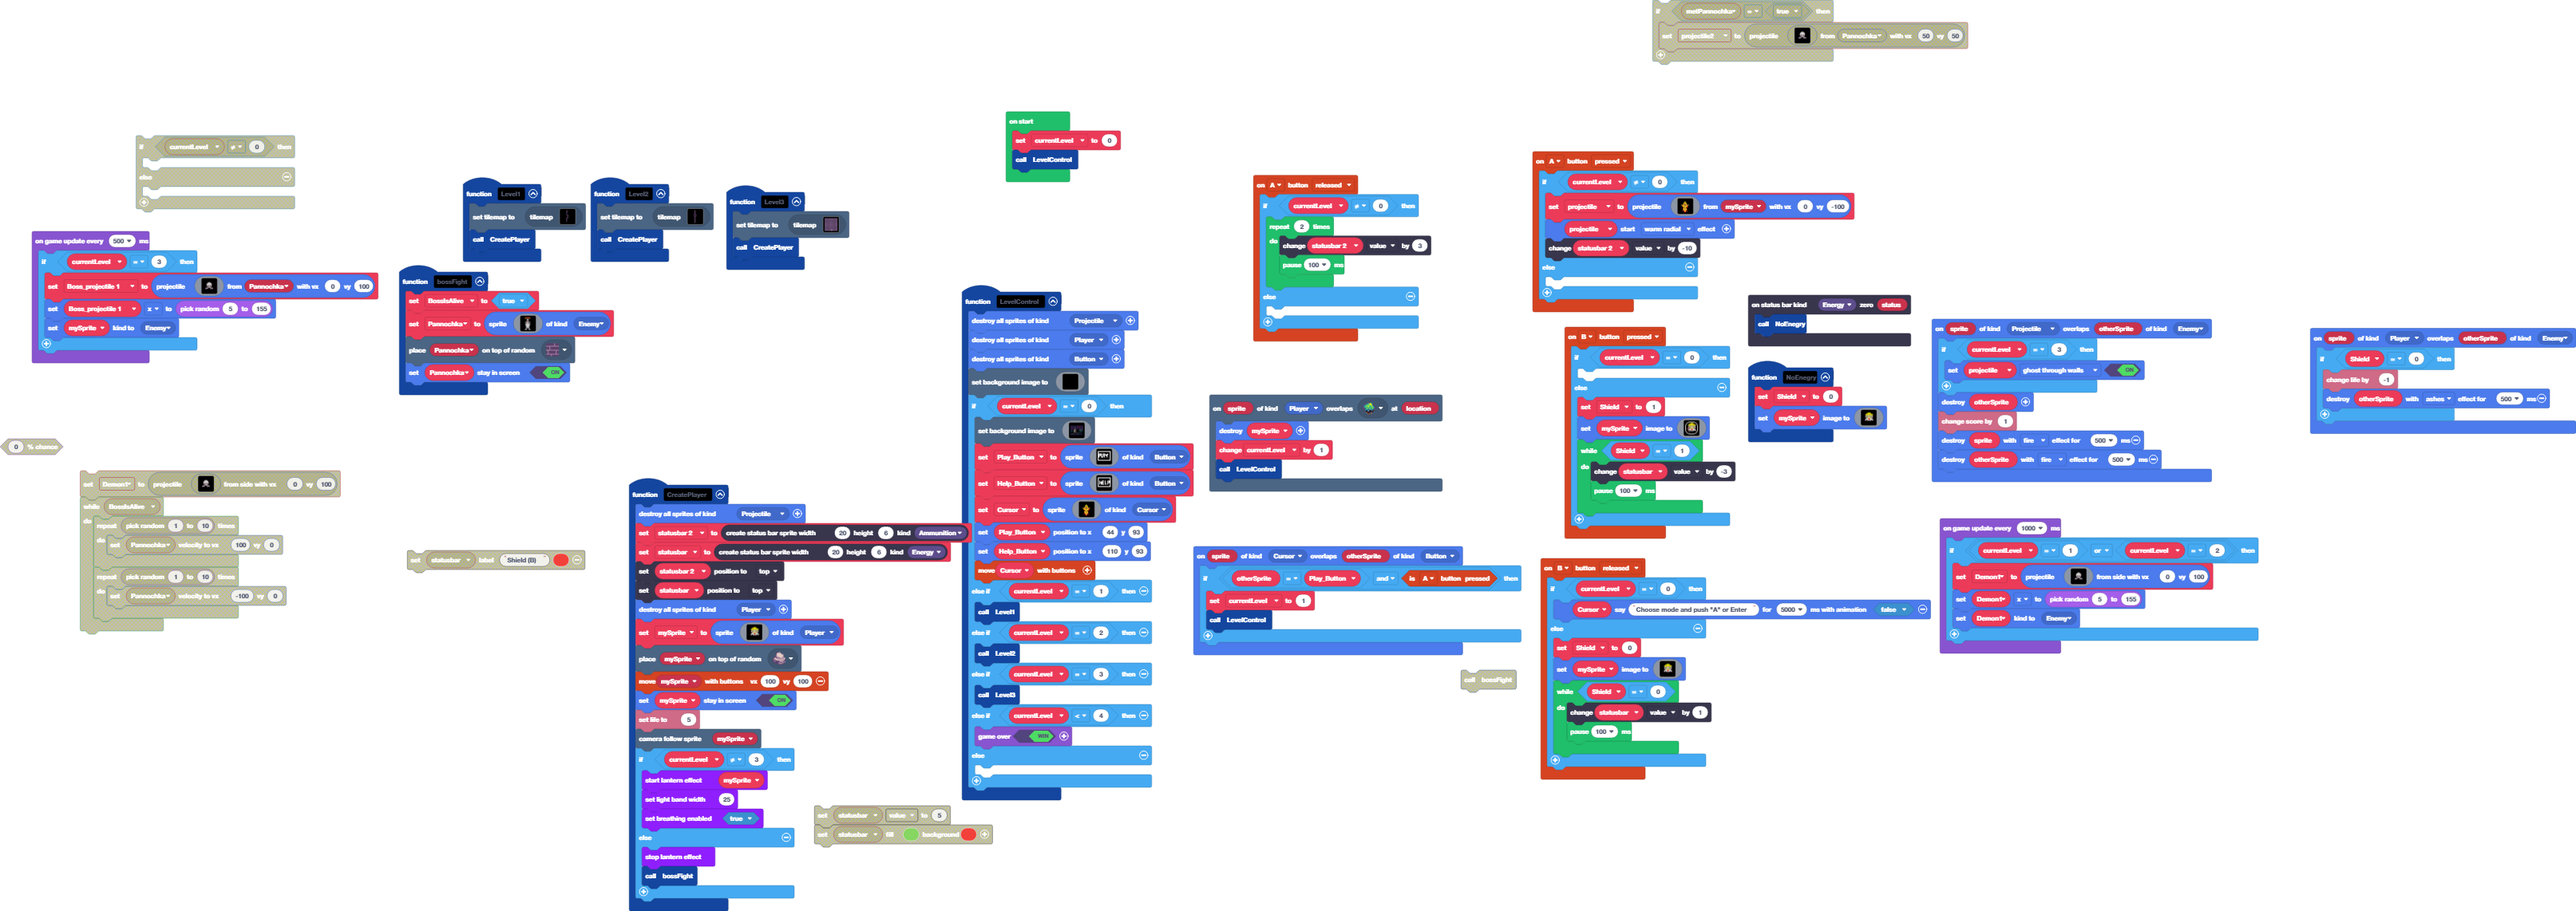
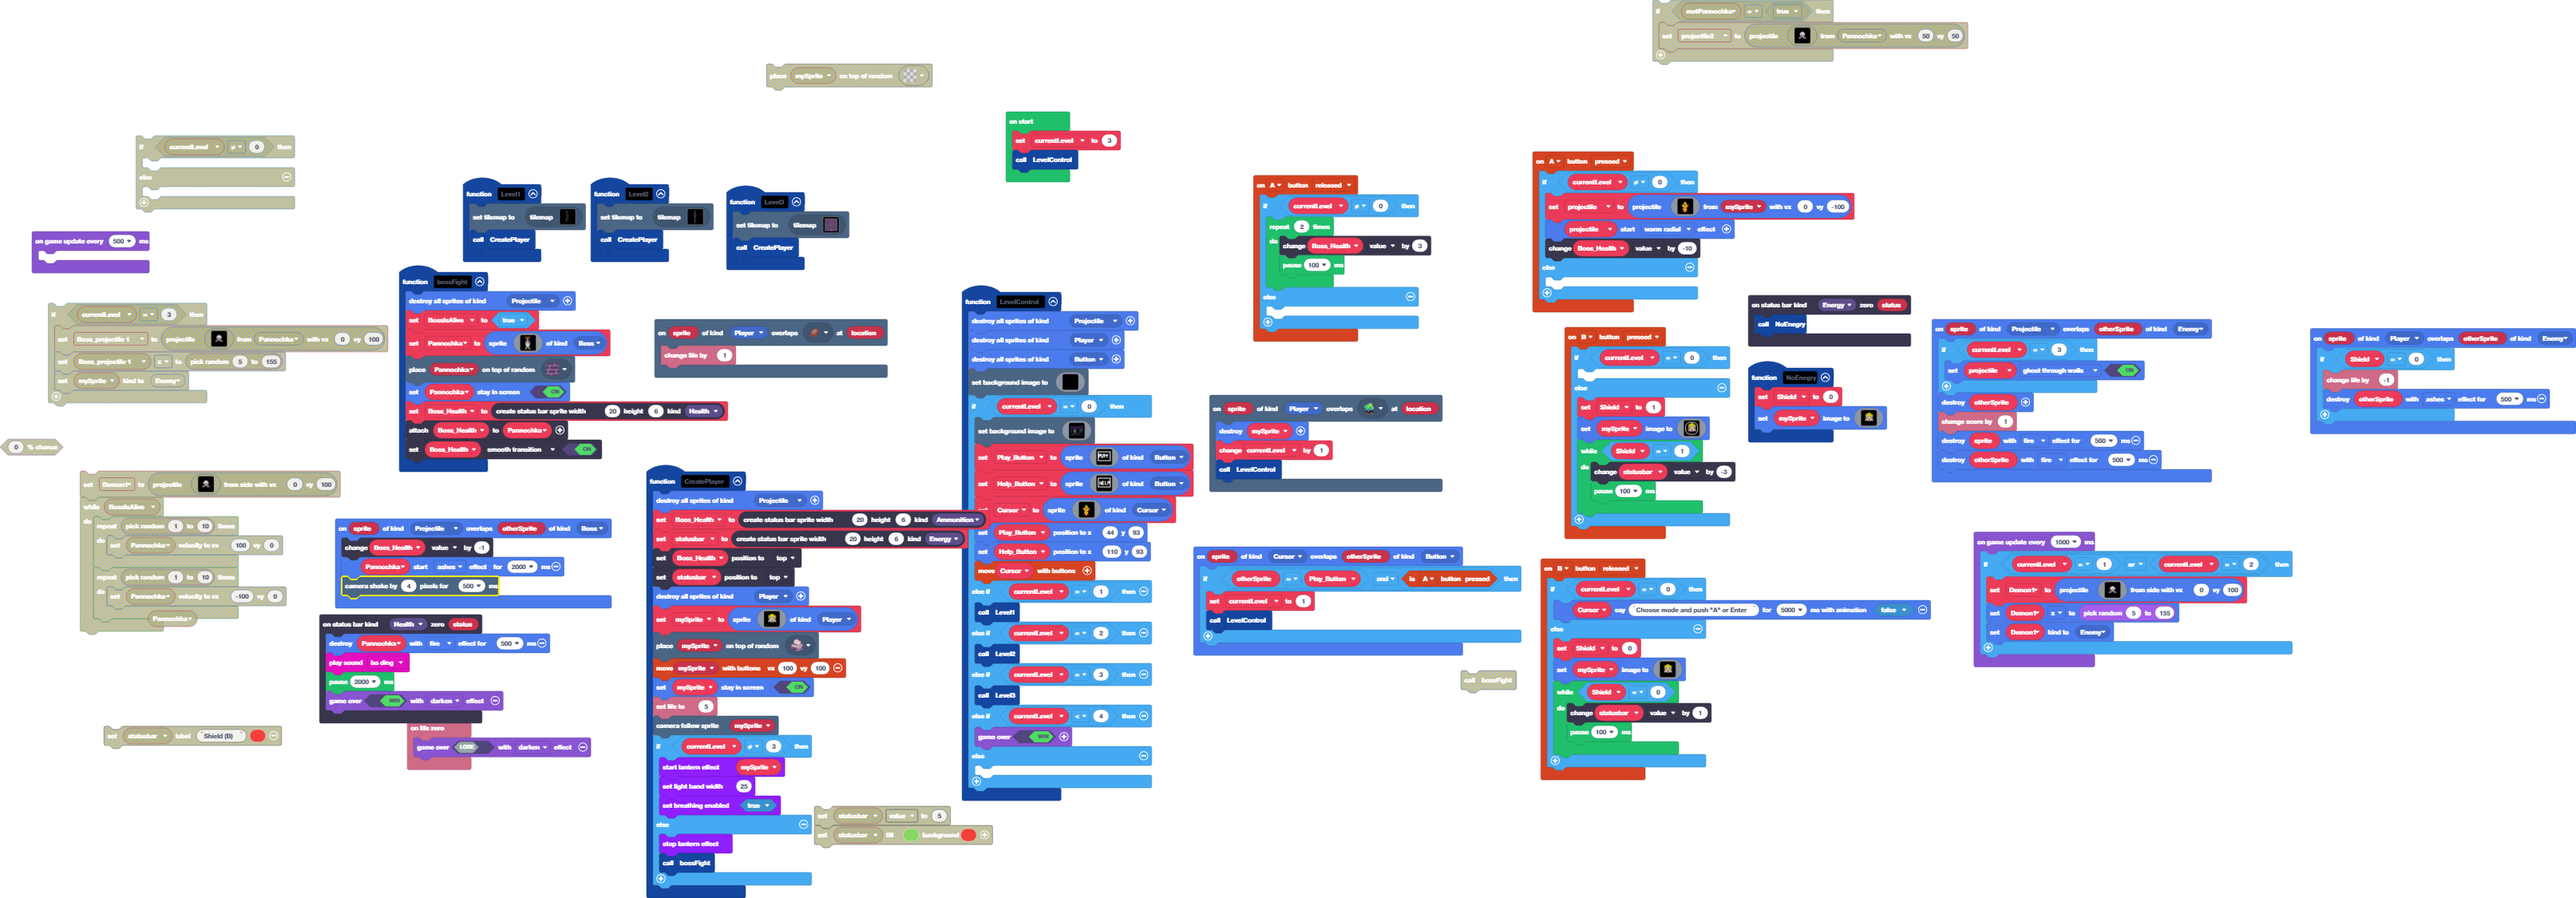
Update main.blocks, main.ts, tilemap.g.jres, tilemap.g.ts

diff --git a/tilemap.g.ts b/tilemap.g.ts
@@ -10,6 +10,8 @@ namespace myTiles {
     export const tile3 = image.ofBuffer(hex``);
     //% fixedInstance jres blockIdentity=images._tile
     export const tile4 = image.ofBuffer(hex``);
+    //% fixedInstance jres blockIdentity=images._tile
+    export const tile5 = image.ofBuffer(hex``);
 
     helpers._registerFactory("tilemap", function(name: string) {
         switch(helpers.stringTrim(name)) {
@@ -166,7 +168,7 @@ namespace myTiles {
 . . . . . . . . . . . . . . . . 
 `, [myTiles.transparency16], TileScale.Sixteen);
             case "level1":
[2 lines of base64/hex data omitted]
 2222222222
 2......222
 2......222
@@ -217,9 +219,9 @@ namespace myTiles {
 ..........
 ..........
 ..........
-`, [myTiles.transparency16,sprites.castle.rock0,sprites.castle.saplingOak,myTiles.tile1], TileScale.Sixteen);
+`, [myTiles.transparency16,sprites.castle.rock0,sprites.castle.saplingOak,myTiles.tile1,myTiles.tile5], TileScale.Sixteen);
             case "level2":
[2 lines of base64/hex data omitted]
 22.....222
 22.....222
 22.....222
@@ -270,13 +272,13 @@ namespace myTiles {
 22.....222
 22.....222
 22.....222
-`, [myTiles.transparency16,myTiles.tile1,sprites.castle.rock0,sprites.castle.saplingOak], TileScale.Sixteen);
+`, [myTiles.transparency16,myTiles.tile1,sprites.castle.rock0,sprites.castle.saplingOak,myTiles.tile5], TileScale.Sixteen);
             case "level3":
[1 lines of base64/hex data omitted]
 2 2 2 2 2 2 2 2 2 2 
 2 . . . . . . . . 2 
 2 . . . . . . . . 2 
-2 2 2 2 2 2 2 2 2 2 
+2 . . . . . . . . 2 
 2 . . . . . . . . 2 
 2 . . . . . . . . 2 
 2 . . . . . . . . 2 
@@ -299,6 +301,8 @@ namespace myTiles {
             case "tile3":return tile3;
             case "myTile2":
             case "tile4":return tile4;
+            case "Bread":
+            case "tile5":return tile5;
         }
         return null;
     })

diff --git a/main.ts b/main.ts
@@ -2,6 +2,7 @@ namespace SpriteKind {
     export const Button = SpriteKind.create()
     export const Cursor = SpriteKind.create()
     export const Picture = SpriteKind.create()
+    export const Boss = SpriteKind.create()
 }
 namespace StatusBarKind {
     export const Ammunition = StatusBarKind.create()
@@ -358,9 +359,9 @@ controller.B.onEvent(ControllerButtonEvent.Pressed, function () {
 })
 function CreatePlayer () {
     sprites.destroyAllSpritesOfKind(SpriteKind.Projectile)
-    statusbar_2 = statusbars.create(20, 6, StatusBarKind.Ammunition)
+    Boss_Health = statusbars.create(20, 6, StatusBarKind.Ammunition)
     statusbar = statusbars.create(20, 6, StatusBarKind.Energy)
-    statusbar_2.positionDirection(CollisionDirection.Top)
+    Boss_Health.positionDirection(CollisionDirection.Top)
     statusbar.positionDirection(CollisionDirection.Top)
     sprites.destroyAllSpritesOfKind(SpriteKind.Player)
     mySprite = sprites.create(img`
@@ -399,6 +400,7 @@ function CreatePlayer () {
     }
 }
 function bossFight () {
+    sprites.destroyAllSpritesOfKind(SpriteKind.Projectile)
     BossIsAlive = true
     Pannochka = sprites.create(img`
         .....542242.....
@@ -421,9 +423,12 @@ function bossFight () {
         .....1...1......
         .....1...1......
         ...111...111....
-        `, SpriteKind.Enemy)
+        `, SpriteKind.Boss)
     tiles.placeOnRandomTile(Pannochka, assets.tile`myTile2`)
     Pannochka.setStayInScreen(true)
+    Boss_Health = statusbars.create(20, 6, StatusBarKind.Health)
+    Boss_Health.attachToSprite(Pannochka)
+    Boss_Health.setStatusBarFlag(StatusBarFlag.SmoothTransition, true)
 }
 function Level2 () {
     tiles.setCurrentTilemap(tilemap`level2`)
@@ -450,7 +455,7 @@ controller.A.onEvent(ControllerButtonEvent.Pressed, function () {
             . . . . . . . 2 . . . . . . . . 
             `, mySprite, 0, -100)
         projectile.startEffect(effects.warmRadial)
-        statusbar_2.value += -10
+        Boss_Health.value += -10
     } else {
     	
     }
@@ -459,6 +464,11 @@ function Level3 () {
     tiles.setCurrentTilemap(tilemap`level3`)
     CreatePlayer()
 }
+sprites.onOverlap(SpriteKind.Projectile, SpriteKind.Boss, function (sprite, otherSprite) {
+    Boss_Health.value += -1
+    Pannochka.startEffect(effects.ashes, 2000)
+    scene.cameraShake(4, 500)
+})
 sprites.onOverlap(SpriteKind.Cursor, SpriteKind.Button, function (sprite, otherSprite) {
     if (otherSprite == Play_Button && controller.A.isPressed()) {
         currentLevel = 1
@@ -469,15 +479,27 @@ function Level1 () {
     tiles.setCurrentTilemap(tilemap`level1`)
     CreatePlayer()
 }
+statusbars.onZero(StatusBarKind.Health, function (status) {
+    Pannochka.destroy(effects.fire, 500)
+    music.baDing.play()
+    pause(2000)
+    game.over(true, color.Darken)
+})
 controller.A.onEvent(ControllerButtonEvent.Released, function () {
     if (currentLevel != 0) {
         for (let index = 0; index < 2; index++) {
-            statusbar_2.value += 3
+            Boss_Health.value += 3
             pause(100)
         }
     } else {
     	
     }
+})
+scene.onOverlapTile(SpriteKind.Player, assets.tile`Bread`, function (sprite, location) {
+    info.changeLifeBy(1)
+})
+info.onLifeZero(function () {
+    game.over(false, color.Darken)
 })
 controller.B.onEvent(ControllerButtonEvent.Released, function () {
     if (currentLevel == 0) {
@@ -558,12 +580,11 @@ function NoEnegry () {
         ...................
         `)
 }
-let Boss_projectile_1: Sprite = null
 let Demon1: Sprite = null
 let projectile: Sprite = null
 let Pannochka: Sprite = null
 let BossIsAlive = false
-let statusbar_2: StatusBarSprite = null
+let Boss_Health: StatusBarSprite = null
 let statusbar: StatusBarSprite = null
 let mySprite: Sprite = null
 let Shield = 0
@@ -571,7 +592,7 @@ let Cursor: Sprite = null
 let Help_Button: Sprite = null
 let Play_Button: Sprite = null
 let currentLevel = 0
-currentLevel = 0
+currentLevel = 3
 LevelControl()
 game.onUpdateInterval(1000, function () {
     if (currentLevel == 1 || currentLevel == 2) {
@@ -581,9 +602,5 @@ game.onUpdateInterval(1000, function () {
     }
 })
 game.onUpdateInterval(500, function () {
-    if (currentLevel == 3) {
-        Boss_projectile_1 = sprites.createProjectileFromSprite(assets.image`Chort`, Pannochka, 0, 100)
-        Boss_projectile_1.x = randint(5, 155)
-        mySprite.setKind(SpriteKind.Enemy)
-    }
+	
 })
